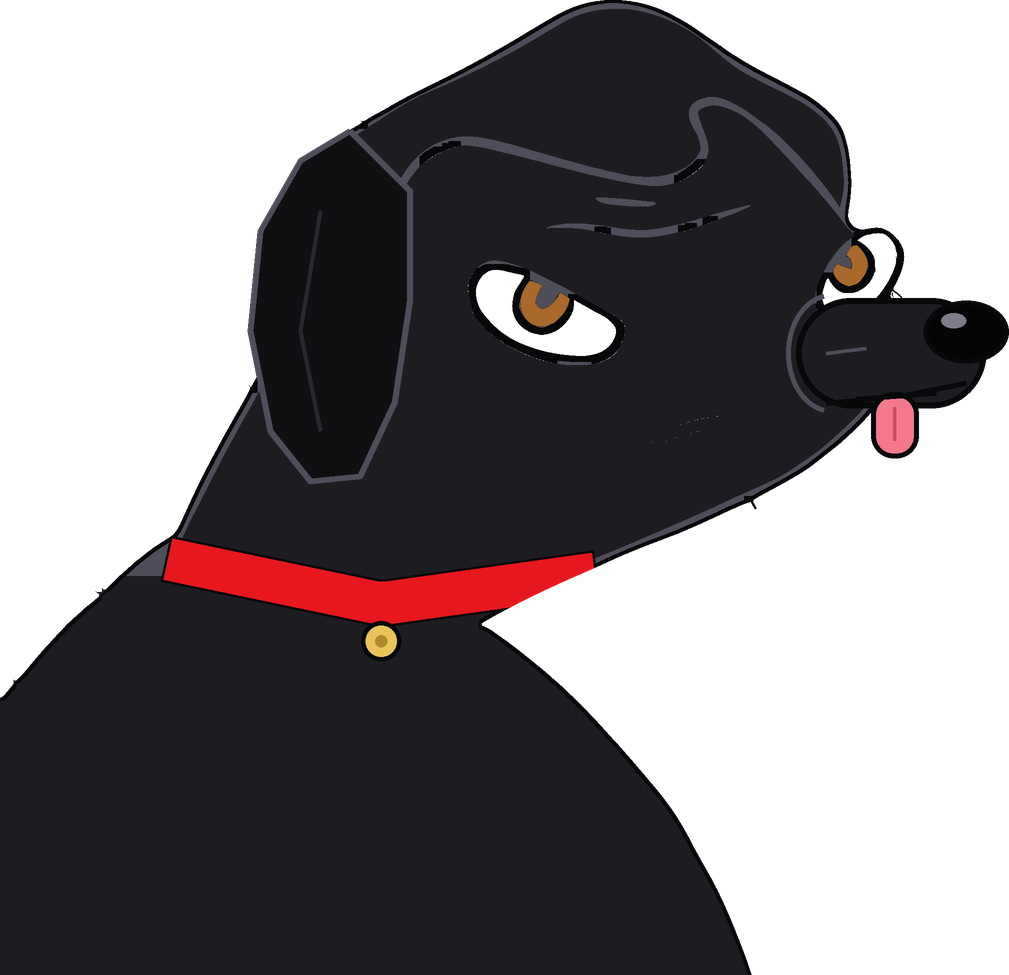
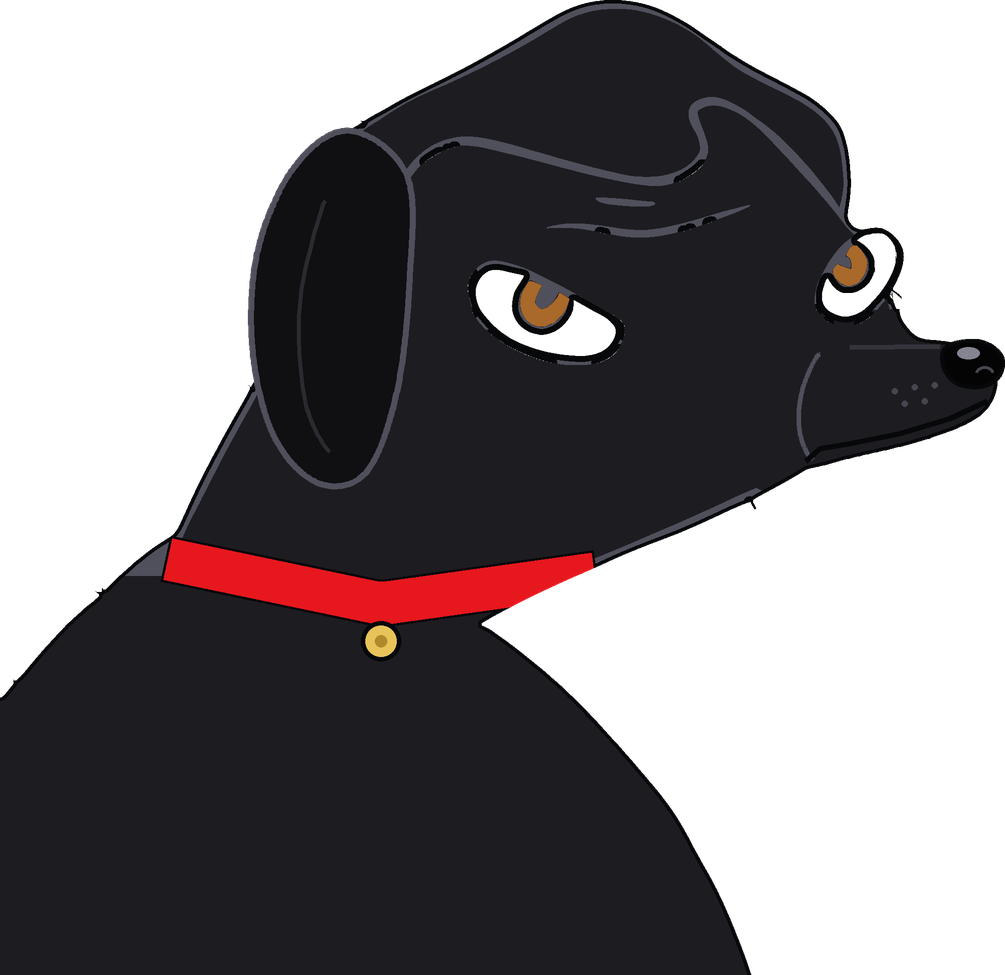
Nemo Mucron: snout rebuilt as part of the head (bridge, nose at the tip, jaw), seamless outline
Claude-Session: https://claude.ai/code/session_018wV7a48DZQTh4d8AXUHhqp

diff --git a/coins/nemo-mucron/make-nemo.py b/coins/nemo-mucron/make-nemo.py
@@ -1,0 +1,88 @@
+# Nemo from Mucron's own silhouette (same pose one to one). The snout grows out of the lower front of the face
+# and is merged into the silhouette, so the outline runs around it without a seam.
+import sys
+from PIL import Image, ImageDraw
+import numpy as np, cv2
+S = '/tmp/claude-0/-home-user-mlb-picks/138ce183-2a73-5cf7-b2ba-d89ecb7f67f7/scratchpad/'
+OUTDIR = '/home/user/mlb-picks/coins/nemo-mucron/img/'
+TONGUE = '--tongue' in sys.argv
+lab = np.load(S + 'mucron-lab.npy'); fig = np.load(S + 'mucron-fig.npy'); H, W = lab.shape
+names = ['white', 'skin', 'brushblue', 'dark', 'red', 'hair', 'tie', 'iris']; L = {n: i for i, n in enumerate(names)}
+ell = lambda k: cv2.getStructuringElement(cv2.MORPH_ELLIPSE, (k, k))
+op = cv2.morphologyEx(fig.astype(np.uint8), cv2.MORPH_OPEN, ell(31))
+n, cc, st, _ = cv2.connectedComponentsWithStats(op, 8); body = cc == (1 + st[1:, cv2.CC_STAT_AREA].argmax())
+fig = fig & cv2.dilate(body.astype(np.uint8), ell(35)).astype(bool)
+n, cc, st, _ = cv2.connectedComponentsWithStats(fig.astype(np.uint8), 8); fig = cc == (1 + st[1:, cv2.CC_STAT_AREA].argmax())
+rows, cols = np.arange(H)[:, None], np.arange(W)[None, :]
+FUR, LINE, OUT = (29, 29, 33), (80, 80, 92), (6, 8, 10)
+
+# --- the snout shape (smooth closed curve), joined to the face ---
+def smooth(pts, n=400):
+    pts = np.array(pts, float); P = []
+    for i in range(len(pts)):  # Catmull-Rom through the points, closed
+        p0, p1, p2, p3 = pts[i - 1], pts[i], pts[(i + 1) % len(pts)], pts[(i + 2) % len(pts)]
+        for t in np.linspace(0, 1, n // len(pts), endpoint=False):
+            P.append(0.5 * ((2 * p1) + (-p0 + p2) * t + (2 * p0 - 5 * p1 + 4 * p2 - p3) * t * t + (-p0 + 3 * p1 - 3 * p2 + p3) * t ** 3))
+    return [tuple(map(int, p)) for p in P]
+SNOUT = smooth([(1600, 800), (1760, 778), (1900, 782), (1975, 812), (1995, 870), (1960, 930), (1860, 975), (1720, 1010), (1590, 1035), (1520, 980)])
+sm = Image.new('L', (W, H), 0); ImageDraw.Draw(sm).polygon(SNOUT, fill=255); snout = np.array(sm) > 0
+fig2 = fig | snout
+# round off the corner where the snout meets the jaw (a big closing, only around the snout)
+zone = cv2.dilate(snout.astype(np.uint8), ell(121)).astype(bool)
+closed = cv2.morphologyEx(fig2.astype(np.uint8), cv2.MORPH_CLOSE, ell(91)).astype(bool)
+fig2 = fig2 | (closed & zone)
+
+# --- colours ---
+band_old = fig & cv2.dilate((~fig).astype(np.uint8), ell(13)).astype(bool)
+band2 = fig2 & cv2.dilate((~fig2).astype(np.uint8), ell(15)).astype(bool)
+near_edge2 = cv2.dilate((~fig2).astype(np.uint8), ell(41)).astype(bool)
+dark = fig & (lab == L['dark']); head = rows < 1250
+shirt = fig & (lab == L['white']) & (rows > 1150); eyes = fig & (lab == L['white']) & ~shirt
+frown = (rows > 900) & (rows < 1035) & (cols > 1250) & (cols < 1570) & fig & (lab != L['skin'])
+out = np.zeros((H, W, 4), np.uint8); out[fig2] = (*FUR, 255)
+out[dark & head & ~band_old & ~frown & ~zone] = (*LINE, 255)         # forehead lines, ear line (none inside the snout area)
+out[dark & band_old & ~zone] = (*OUT, 255)                           # the original outline, away from the snout
+out[band2] = (*OUT, 255)                                             # and around the snout
+out[eyes] = (255, 255, 255, 255); out[fig & (lab == L['iris'])] = (168, 105, 42, 255)
+out[dark & head & cv2.dilate(eyes.astype(np.uint8), ell(25)).astype(bool)] = (*OUT, 255)   # eye rims
+out[frown & fig2 & ~band2] = (*FUR, 255)                               # Mucron's frown leaves the cheek
+img = Image.fromarray(out); d = ImageDraw.Draw(img)
+
+# --- collar and tag ---
+sy, sx = np.where(shirt); top = sy.min(); skin = fig & (lab == L['skin'])
+yb = top + 10; xr = np.where(skin[yb - 60])[0]; x0, x1 = xr.min() - 20, xr.max() + 30
+col = Image.new('L', (W, H), 0); ImageDraw.Draw(col).line([(x0, yb - 70), ((x0 + x1) // 2, yb + 20), (x1, yb - 40)], fill=255, width=95, joint='curve')
+colm = np.array(col) > 0; a = np.array(img); a[colm & fig2] = (231, 23, 30, 255)
+a[colm & ~cv2.erode(colm.astype(np.uint8), np.ones((9, 9), np.uint8)).astype(bool) & fig2] = (*OUT, 255)
+img = Image.fromarray(a); d = ImageDraw.Draw(img)
+tx, ty = (x0 + x1) // 2, yb + 95; d.ellipse((tx - 40, ty - 40, tx + 40, ty + 40), fill=(232, 195, 90, 255), outline=OUT, width=9); d.ellipse((tx - 12, ty - 12, tx + 12, ty + 12), fill=(176, 138, 42, 255))
+
+# --- floppy ear where Mucron's hair flips ---
+ear = smooth([(700, 360), (590, 430), (515, 600), (505, 800), (550, 975), (640, 1065), (735, 1040), (795, 880), (820, 660), (815, 450)])
+d.polygon(ear, fill=(16, 16, 19, 255)); d.line(ear + [ear[0]], fill=(*LINE, 255), width=12, joint='curve')
+d.line(smooth([(650, 500), (600, 700), (610, 900), (660, 1000), (640, 880), (630, 690)], 120)[:60], fill=(42, 42, 48, 255), width=8)
+
+# --- snout details: stop crease, nose, mouth with Mucron's downturn, whisker dots ---
+d.line(smooth([(1640, 806), (1605, 880), (1600, 960), (1625, 1015), (1640, 950), (1650, 870)], 160)[:80], fill=(*LINE, 255), width=9)
+d.line([(1700, 792), (1880, 790)], fill=(52, 52, 60, 255), width=10)                               # light on the bridge
+nose = smooth([(1895, 790), (1960, 780), (2003, 808), (2000, 850), (1965, 872), (1915, 866), (1888, 832)])
+d.polygon(nose, fill=(4, 4, 5, 255)); d.line(nose + [nose[0]], fill=(*OUT, 255), width=8)
+d.ellipse((1915, 792, 1960, 816), fill=(132, 132, 146, 255))
+d.arc((1950, 830, 1990, 866), 200, 340, fill=(70, 70, 80, 255), width=6)                          # nostril
+mouth = [(1975, 900), (1900, 935), (1800, 965), (1700, 985), (1640, 995)]
+d.line(mouth, fill=(*OUT, 255), width=11, joint='curve')
+d.line([(1640, 995), (1612, 1020)], fill=(*OUT, 255), width=11)                                    # the downturn, like Mucron's frown
+for wx, wy in [(1790, 880), (1830, 872), (1870, 868), (1810, 905), (1850, 900)]:
+    d.ellipse((wx - 6, wy - 6, wx + 6, wy + 6), fill=(70, 70, 80, 255))
+if TONGUE:
+    t = smooth([(1890, 938), (1935, 925), (1950, 965), (1925, 1000), (1895, 990)])
+    d.polygon(t, fill=(244, 120, 140, 255)); d.line(t + [t[0]], fill=(*OUT, 255), width=8); d.line([(1920, 945), (1922, 985)], fill=(200, 80, 100, 255), width=5)
+
+img = img.crop(img.getbbox()); img.save(S + 'nemo-pose-2048.png')
+img.resize((img.width // 2, img.height // 2), Image.LANCZOS).save(OUTDIR + 'nemo-pose.png')
+bg = Image.new('RGBA', img.size, (255, 255, 255, 255)); bg.alpha_composite(img)
+bg.convert('RGB').crop((1150, 420, 2011, 1200)).save(S + 'nemo-head-prev.png')
+m = Image.open(OUTDIR + 'mucron-1000.png').convert('RGBA'); dsm = Image.open(OUTDIR + 'nemo-pose.png').convert('RGBA')
+dd = dsm.resize((int(dsm.width * 0.46), int(dsm.height * 0.46)), Image.LANCZOS)
+sq = m.copy(); sq.alpha_composite(dd, (1000 - dd.width - 4, 1000 - dd.height + 8)); sq.convert('RGB').save(OUTDIR + 'nemo-mucron-square.png')
+print('ok', img.size, dd.size)
